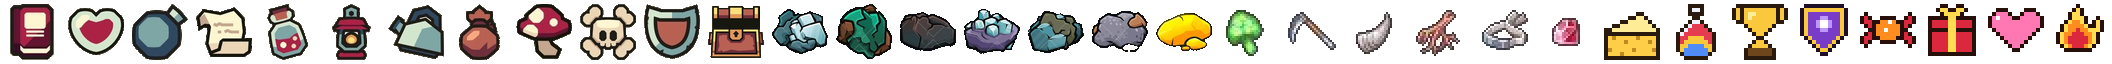
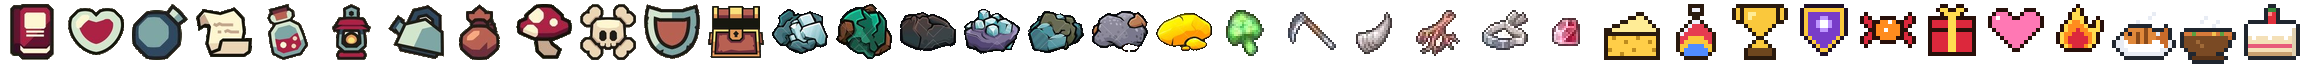
Adolfo, el chef del casino: fogón y platos que dejan Bien alimentado (v1.9.1)
Claude-Session: https://claude.ai/code/session_012giJR8jrsmCsJ3cu1HsXxX

diff --git a/js/game.js b/js/game.js
@@ -1,7 +1,7 @@
 // =====================================================
 //  UTILIDADES
 // =====================================================
-const VERSION = '1.9.0'; // también en index.html (estilos y scripts)
+const VERSION = '1.9.1'; // también en index.html (estilos y scripts)
 const $ = id => document.getElementById(id);
 // ---------- todo el mundo en pixel art ----------
 // cada hoja del mundo tiene una versión en pixel art (img/px) con cada dibujo reducido al tamaño con que se ve en pantalla.
@@ -218,7 +218,7 @@ const TAM_BOLSA = 24;
 
 let uidObj = 0;
 // íconos de objetos de uso, cofre y minerales
-const IC3 = {"libro": 0, "corazon": 1, "bomba": 2, "pergamino": 3, "pocion": 4, "farol": 5, "tetera": 6, "bolsa": 7, "seta": 8, "calavera": 9, "escudo": 10, "cofre": 11, "m_plata": 12, "m_cobre": 13, "m_hierro": 14, "m_estano": 15, "m_plomo": 16, "m_zinc": 17, "m_oro": 18, "p_gelatina": 19, "p_guadana": 20, "p_colmillo": 21, "p_pinza": 22, "p_seda": 23, "p_nucleo": 24, "queso": 25, "tinte": 26, "trofeo": 27, "emblema": 28, "caramelo": 29, "regalo": 30, "bombon": 31, "brasa": 32};
+const IC3 = {"libro": 0, "corazon": 1, "bomba": 2, "pergamino": 3, "pocion": 4, "farol": 5, "tetera": 6, "bolsa": 7, "seta": 8, "calavera": 9, "escudo": 10, "cofre": 11, "m_plata": 12, "m_cobre": 13, "m_hierro": 14, "m_estano": 15, "m_plomo": 16, "m_zinc": 17, "m_oro": 18, "p_gelatina": 19, "p_guadana": 20, "p_colmillo": 21, "p_pinza": 22, "p_seda": 23, "p_nucleo": 24, "queso": 25, "tinte": 26, "trofeo": 27, "emblema": 28, "caramelo": 29, "regalo": 30, "bombon": 31, "brasa": 32, "pescado": 33, "guiso": 34, "tarta": 35};
 const IC3_URL = 'img/ic3.png?v=' + VERSION;
 const IC3_N = Object.keys(IC3).length;
 const IC3_IMG = new Image(); IC3_IMG.src = IC3_URL;
@@ -233,6 +233,9 @@ const APILABLES = {
   queso:     { n:'Galleta de queso',        d:'Alimenta a tu mascota: llena su barriga y le da experiencia.', valor:150, usa:true, r:1 },
   tetera:    { n:'Té de la posada',         d:'Recupera la mitad de tu energía y te deja Descansado 2 minutos.', valor:300, usa:true, r:1 },
   farol:     { n:'Farol purificador',       d:'Elimina todos tus efectos negativos (veneno, lentitud...).', valor:600, usa:true, r:1 },
+  pescado:   { n:'Pescado a la parrilla',   d:'Bien alimentado: +10% de daño durante 10 minutos.', valor:250, usa:true, r:1, comida:'com_atk' },
+  guiso:     { n:'Guiso del chef',          d:'Bien alimentado: recibes un 10% menos de daño durante 10 minutos.', valor:250, usa:true, r:1, comida:'com_def' },
+  tarta:     { n:'Tarta de nata',           d:'Bien alimentado: +10% de velocidad y +30% de energía recuperada durante 10 minutos.', valor:250, usa:true, r:1, comida:'com_vel' },
   bomba:     { n:'Bomba de sombras',        d:'Explota a tu alrededor y daña a los enemigos cercanos. Solo dentro de los portales.', valor:700, usa:true, r:2 },
   m_cobre:   { n:'Mineral de cobre',  d:'Material. Se encuentra en las cuevas de rango E.', valor:300,   mat:true, r:0 },
   m_hierro:  { n:'Mineral de hierro', d:'Material. Se encuentra en las cuevas de rango D.', valor:900,   mat:true, r:0 },
@@ -266,6 +269,11 @@ function usarApilable(k){
   else if (k === 'tetera'){ P.en = Math.min(D.maxEn, P.en + D.maxEn * .5); ponerEfecto('spi_up', 120); }
   else if (k === 'farol'){ limpiarEfectos(true); texto(P.x, P.y - 70, 'Purificado', '#ffe3a1', 15); }
   else if (k === 'queso'){ if (!alimentarMascota()) return; }
+  else if (A.comida){
+    // solo un plato a la vez, como el «Bien alimentado» de WoW
+    for (const c of ['com_atk', 'com_def', 'com_vel']) if (c !== A.comida) delete estados[c];
+    ponerEfecto(A.comida, 600); sfx('comer');
+  }
   PJ.mats[k]--; if (PJ.mats[k] <= 0) delete PJ.mats[k];
   chat(`Usas [${A.n}].`, '#ffe3a1'); guardar(); renderBolsa();
 }
@@ -997,7 +1005,7 @@ function dibujarAsociacionInt(t){
 // =====================================================
 //  CASINO: tres tragaperras y una ruleta
 // =====================================================
-const CAS = {"fachada":[0,0,184,168],"tragaperras":[186,0,48,76],"ruleta":[236,0,132,88],"alfombra":[370,0,48,48],"pared":[420,0,64,88],"sim0":[486,0,28,28],"sim1":[516,0,28,28],"sim2":[546,0,28,28],"sim3":[576,0,28,28],"sim4":[606,0,28,28],"sim5":[636,0,28,28]};
+const CAS = {"fachada":[0,0,184,168],"tragaperras":[186,0,48,76],"ruleta":[236,0,132,88],"alfombra":[370,0,48,48],"pared":[420,0,64,88],"sim0":[486,0,28,28],"sim1":[516,0,28,28],"sim2":[546,0,28,28],"sim3":[576,0,28,28],"sim4":[606,0,28,28],"sim5":[636,0,28,28],"fogon":[666,0,60,64]};
 const CAS_IMG = new Image();
 let casListo = false, PAT_ALFOMBRA = null;
 CAS_IMG.onload = () => {
@@ -1025,6 +1033,12 @@ function crearCasino(){
   setMueble(G, 7, 4, 10, 6);
   G.props.push({ cas:'ruleta', x:8.5 * T, y:6 * T });
   G.inter.push({ x:8.5 * T, y:6.6 * T, r:60, texto:'Jugar a la ruleta', accion:abrirRuleta });
+  // Adolfo, el chef, con su fogón en la esquina
+  setMueble(G, 9, 1, 11, 2);
+  G.props.push({ cas:'fogon', x:9.9 * T, y:2 * T + 4 });
+  G.npcs = [{ spr:'adolfo', nombre:'Adolfo, el chef', x:8.5 * T, y:2.55 * T }];
+  G.obs.push({ x:8.5 * T, y:2.55 * T, r:14 });
+  G.inter.push({ x:8.5 * T, y:3.3 * T, r:46, texto:'Hablar con Adolfo', accion:abrirAdolfo });
   G.puerta = 6 * T;
   G.inter.push({ x:6 * T, y:7.4 * T, r:50, texto:'Salir a la ciudad', accion:() => irCiudad('casino') });
   return G;
@@ -1067,8 +1081,48 @@ function dibujarPropCasino(pr){
     if (!sinMovimiento && Math.floor(t * 3 + pr.luz) % 2){ ctx.fillStyle = '#ff5a5a'; ctx.fillRect(pr.x - 6, pr.y - 74, 8, 4); }
     return;
   }
+  if (pr.cas === 'fogon'){
+    ctx.fillRect(pr.x - 28, pr.y - 6, 56, 8);
+    dibujarCas('fogon', pr.x, pr.y);
+    // vapor que sube de la olla
+    if (!sinMovimiento) for (let k = 0; k < 3; k++){
+      const u = (t * .6 + k / 3) % 1;
+      ctx.fillStyle = `rgba(235,240,248,${.55 * (1 - u)})`;
+      ctx.fillRect(Math.round(pr.x - 6 + k * 6 + Math.sin(u * 6 + k) * 3), Math.round(pr.y - 64 - u * 26), 4, 4);
+    }
+    return;
+  }
   ctx.fillRect(pr.x - 60, pr.y - 6, 120, 8);
   dibujarCas('ruleta', pr.x, pr.y);
+}
+
+// ---------- Adolfo, el chef ----------
+const PLATOS_ADOLFO = [['pescado', 600], ['guiso', 600], ['tarta', 600]];
+const FRASES_ADOLFO = [
+  '¡Bienvenido! Nadie gana en la ruleta con el estómago vacío.',
+  'Mi guiso lleva tres horas al fuego. El secreto es el cariño... y un poco de pimienta.',
+  'Los cazadores que comen bien vuelven de las mazmorras. Los otros... no tanto.',
+  '¿La tragaperras te ha dejado sin plata? Un pescado a la parrilla lo arregla todo.'
+];
+function abrirAdolfo(msg){
+  npcHablando = null; casJuego++;
+  const si = $('miSi'), no = $('miNo');
+  $('miNombre').textContent = 'Adolfo, el chef';
+  $('miTitulo').textContent = 'La cocina de Adolfo';
+  $('miCuerpo').innerHTML = `<p>${msg || FRASES_ADOLFO[Math.random() * FRASES_ADOLFO.length | 0]}</p>
+    ${PLATOS_ADOLFO.map(([k, precio]) => `<button class="btn chef-plato" data-plato="${k}" ${PJ.oro < precio ? 'disabled' : ''}>
+      <span class="tienda-ic">${ic3(k)}<span><b>${APILABLES[k].n}</b><small>${APILABLES[k].d}</small></span></span><span>${dinero(precio)}</span></button>`).join('')}
+    <div class="linea"><span>Tu dinero</span><b>${dinero(PJ.oro)}</b></div>
+    <p class="tenue" style="margin-top:6px">Los platos van a tu bolsa. Cómelos con clic derecho cuando quieras; solo hace efecto uno a la vez.</p>`;
+  $('miCuerpo').querySelectorAll('.chef-plato').forEach(b => b.onclick = () => {
+    const [k, precio] = PLATOS_ADOLFO.find(x => x[0] === b.dataset.plato);
+    if (PJ.oro < precio) return;
+    PJ.oro -= precio; darApilable(k); guardar(); renderBolsa(); sfx('moneda');
+    chat(`Compras [${APILABLES[k].n}] a Adolfo.`, '#ffe3a1');
+    abrirAdolfo(`¡Aquí tienes tu ${APILABLES[k].n.toLowerCase()}! Buen provecho.`);
+  });
+  si.classList.add('oculto'); no.textContent = 'Adiós';
+  pantalla('pMision');
 }
 
 // ---------- juegos ----------
@@ -3087,6 +3141,9 @@ const EFECTOS = {
   muro:    { n:'Muro de escudo',     d:'Recibes 60% menos daño',     ic:'b_def_up' },
   avatar:  { n:'Avatar',             d:'+25% de daño',               ic:'b_atk_up' },
   tormenta:{ n:'Tormenta de cuchillas', d:'Cortas a todos a tu alrededor', ic:'b_atk_up' },
+  com_atk: { n:'Bien alimentado',    d:'+10% de daño',               ic:'b_atk_up' },
+  com_def: { n:'Bien alimentado',    d:'Recibes 10% menos daño',     ic:'b_def_up' },
+  com_vel: { n:'Bien alimentado',    d:'+10% de velocidad y +30% de energía recuperada', ic:'b_agi_up' },
   evasion: { n:'Evasión',            d:'Esquivas la mitad de los golpes', ic:'b_agi_up' }
 };
 // qué debuff deja cada monstruo al golpearte (y con qué probabilidad)
@@ -3104,10 +3161,10 @@ function ponerEfecto(id, seg){
   pintarBuffs(true);
 }
 const efMod = {
-  dmg:   () => (estados.atk_up ? 1.2 : 1) * (estados.atk_dn ? .8 : 1) * (estados.avatar ? 1.25 : 1),
-  recibe:() => (estados.def_up ? .7 : 1) * (estados.def_dn ? 1.25 : 1) * (estados.muro ? .4 : 1),
-  vel:   () => (estados.agi_up ? 1.25 : 1) * (estados.agi_dn ? .65 : 1),
-  regEn: () => (estados.spi_up ? 1.6 : 1) * (estados.spi_dn ? .5 : 1)
+  dmg:   () => (estados.atk_up ? 1.2 : 1) * (estados.atk_dn ? .8 : 1) * (estados.avatar ? 1.25 : 1) * (estados.com_atk ? 1.1 : 1),
+  recibe:() => (estados.def_up ? .7 : 1) * (estados.def_dn ? 1.25 : 1) * (estados.muro ? .4 : 1) * (estados.com_def ? .9 : 1),
+  vel:   () => (estados.agi_up ? 1.25 : 1) * (estados.agi_dn ? .65 : 1) * (estados.com_vel ? 1.1 : 1),
+  regEn: () => (estados.spi_up ? 1.6 : 1) * (estados.spi_dn ? .5 : 1) * (estados.com_vel ? 1.3 : 1)
 };
 let tBuffs = 0, tVeneno = 0;
 function updateEfectos(dt){
@@ -4563,7 +4620,7 @@ function dibujarTiendaInt(t){
 // =====================================================
 //  NPC CON MISIONES (estilo WoW: ! amarillo, ? gris o amarillo)
 // =====================================================
-const NPC_SPR = {"comandante": [2, 2, 51, 68], "sabia": [55, 2, 48, 68], "panda": [105, 2, 52, 68], "vance": [159, 2, 43, 68], "aiko": [204, 2, 42, 68], "tendera": [248, 2, 50, 68], "herrero": [300, 2, 46, 68], "clienta": [348, 2, 47, 68], "cliente": [397, 2, 44, 68], "leon": [443, 2, 47, 68], "kenji": [492, 2, 46, 68], "bruno": [540, 2, 46, 68]};
+const NPC_SPR = {"comandante": [2, 2, 51, 68], "sabia": [55, 2, 48, 68], "panda": [105, 2, 52, 68], "vance": [159, 2, 43, 68], "aiko": [204, 2, 42, 68], "tendera": [248, 2, 50, 68], "herrero": [300, 2, 46, 68], "clienta": [348, 2, 47, 68], "cliente": [397, 2, 44, 68], "leon": [443, 2, 47, 68], "kenji": [492, 2, 46, 68], "bruno": [540, 2, 46, 68], "adolfo": [590, 2, 48, 68]};
 const NPC_IMG = new Image();
 let npcListo = false;
 NPC_IMG.onload = () => npcListo = true;

diff --git a/index.html b/index.html
@@ -14,7 +14,7 @@
 <title>Riftborn: El Ascenso del Eclipse</title>
 <link rel="preconnect" href="https://fonts.googleapis.com">
 <link href="https://fonts.googleapis.com/css2?family=Marcellus&family=Rajdhani:wght@500;600;700&display=swap" rel="stylesheet">
-<link rel="stylesheet" href="css/style.css?v=1.9.0">
+<link rel="stylesheet" href="css/style.css?v=1.9.1">
 </head>
 <body>
 <canvas id="c"></canvas>
@@ -87,7 +87,7 @@
   <div class="wl-izq">
     <button class="wbtn" id="tabReg" type="button">Crear cuenta</button>
     <button class="wbtn" id="tabEntrar" type="button">Ya tengo cuenta</button>
-    <small class="wl-version">Versión 1.9.0 (Eclipse)<br>Tu cuenta se guarda en este navegador</small>
+    <small class="wl-version">Versión 1.9.1 (Eclipse)<br>Tu cuenta se guarda en este navegador</small>
   </div>
   <div class="wl-der">
     <button class="wbtn" type="button" data-ir="pAyuda">Cómo jugar</button>
@@ -139,7 +139,7 @@
       <li><b>Clases:</b> el guerrero usa ira (se gana peleando), el cazador de sombras energía y puntos de combo, y el mago maná. Cada clase tiene sus propios poderes en Q, F, R y 1 a 4 (Carga, Hender, Bola de fuego, Ventisca, Veneno letal, Tormenta de cuchillas…) y 5 técnicas más en las teclas 5 a 8.</li>
       <li><b>Grupo:</b> con el buscador de mazmorras (I) entras con un tanque y una sanadora. Los enemigos atacan a quien más amenaza les genera.</li>
       <li><b>Emblemas:</b> los dan los jefes. Cámbialos por equipo épico con Vance, en la Asociación de Cazadores.</li>
-      <li><b>Casino:</b> entre la posada y el mercado. Tiene tres tragaperras y una ruleta para apostar tu dinero.</li>
+      <li><b>Casino:</b> entre la posada y el mercado. Tiene tres tragaperras y una ruleta para apostar tu dinero, y a Adolfo, el chef, que vende platos que te dejan Bien alimentado.</li>
       <li><b>Durabilidad:</b> tu equipo se gasta al pelear y al morir. Repáralo en la forja.</li>
       <li><b>Jefe de mundo:</b> los primeros 20 minutos de cada hora se abre una grieta roja en la ciudad.</li>
       <li><b>Festivales:</b> según la época del año hay adornos, objetos especiales y un puesto en la plaza.</li>
@@ -315,7 +315,7 @@
   <button class="btn principal" id="btnRevivir">Despertar en la posada</button>
 </div>
 
-<script src="auth/auth.js?v=1.9.0"></script>
-<script src="js/game.js?v=1.9.0"></script>
+<script src="auth/auth.js?v=1.9.1"></script>
+<script src="js/game.js?v=1.9.1"></script>
 </body>
 </html>

diff --git a/css/style.css b/css/style.css
@@ -906,3 +906,6 @@ body.tactil .wv-cuerpo{flex:1 1 auto;min-height:0;overflow-y:auto;-webkit-overfl
 .cas-tabla span{display:flex;align-items:center;gap:3px}
 .cas-sim{display:inline-block;width:28px;height:28px;background:url(../img/casino.png) no-repeat;image-rendering:pixelated;flex:none}
 @media (max-width:520px){.cas-tabla{grid-template-columns:repeat(2,1fr)}.cas-rueda{width:110px}}
+.btn.chef-plato{width:100%;display:flex;justify-content:space-between;align-items:center;gap:10px;margin-top:6px;text-align:left;padding:.4rem .6rem !important}
+.chef-plato small{display:block;opacity:.75;font-size:.75rem;font-weight:400;line-height:1.2}
+.chef-plato .ic3{width:32px !important;height:32px !important;flex:none}
